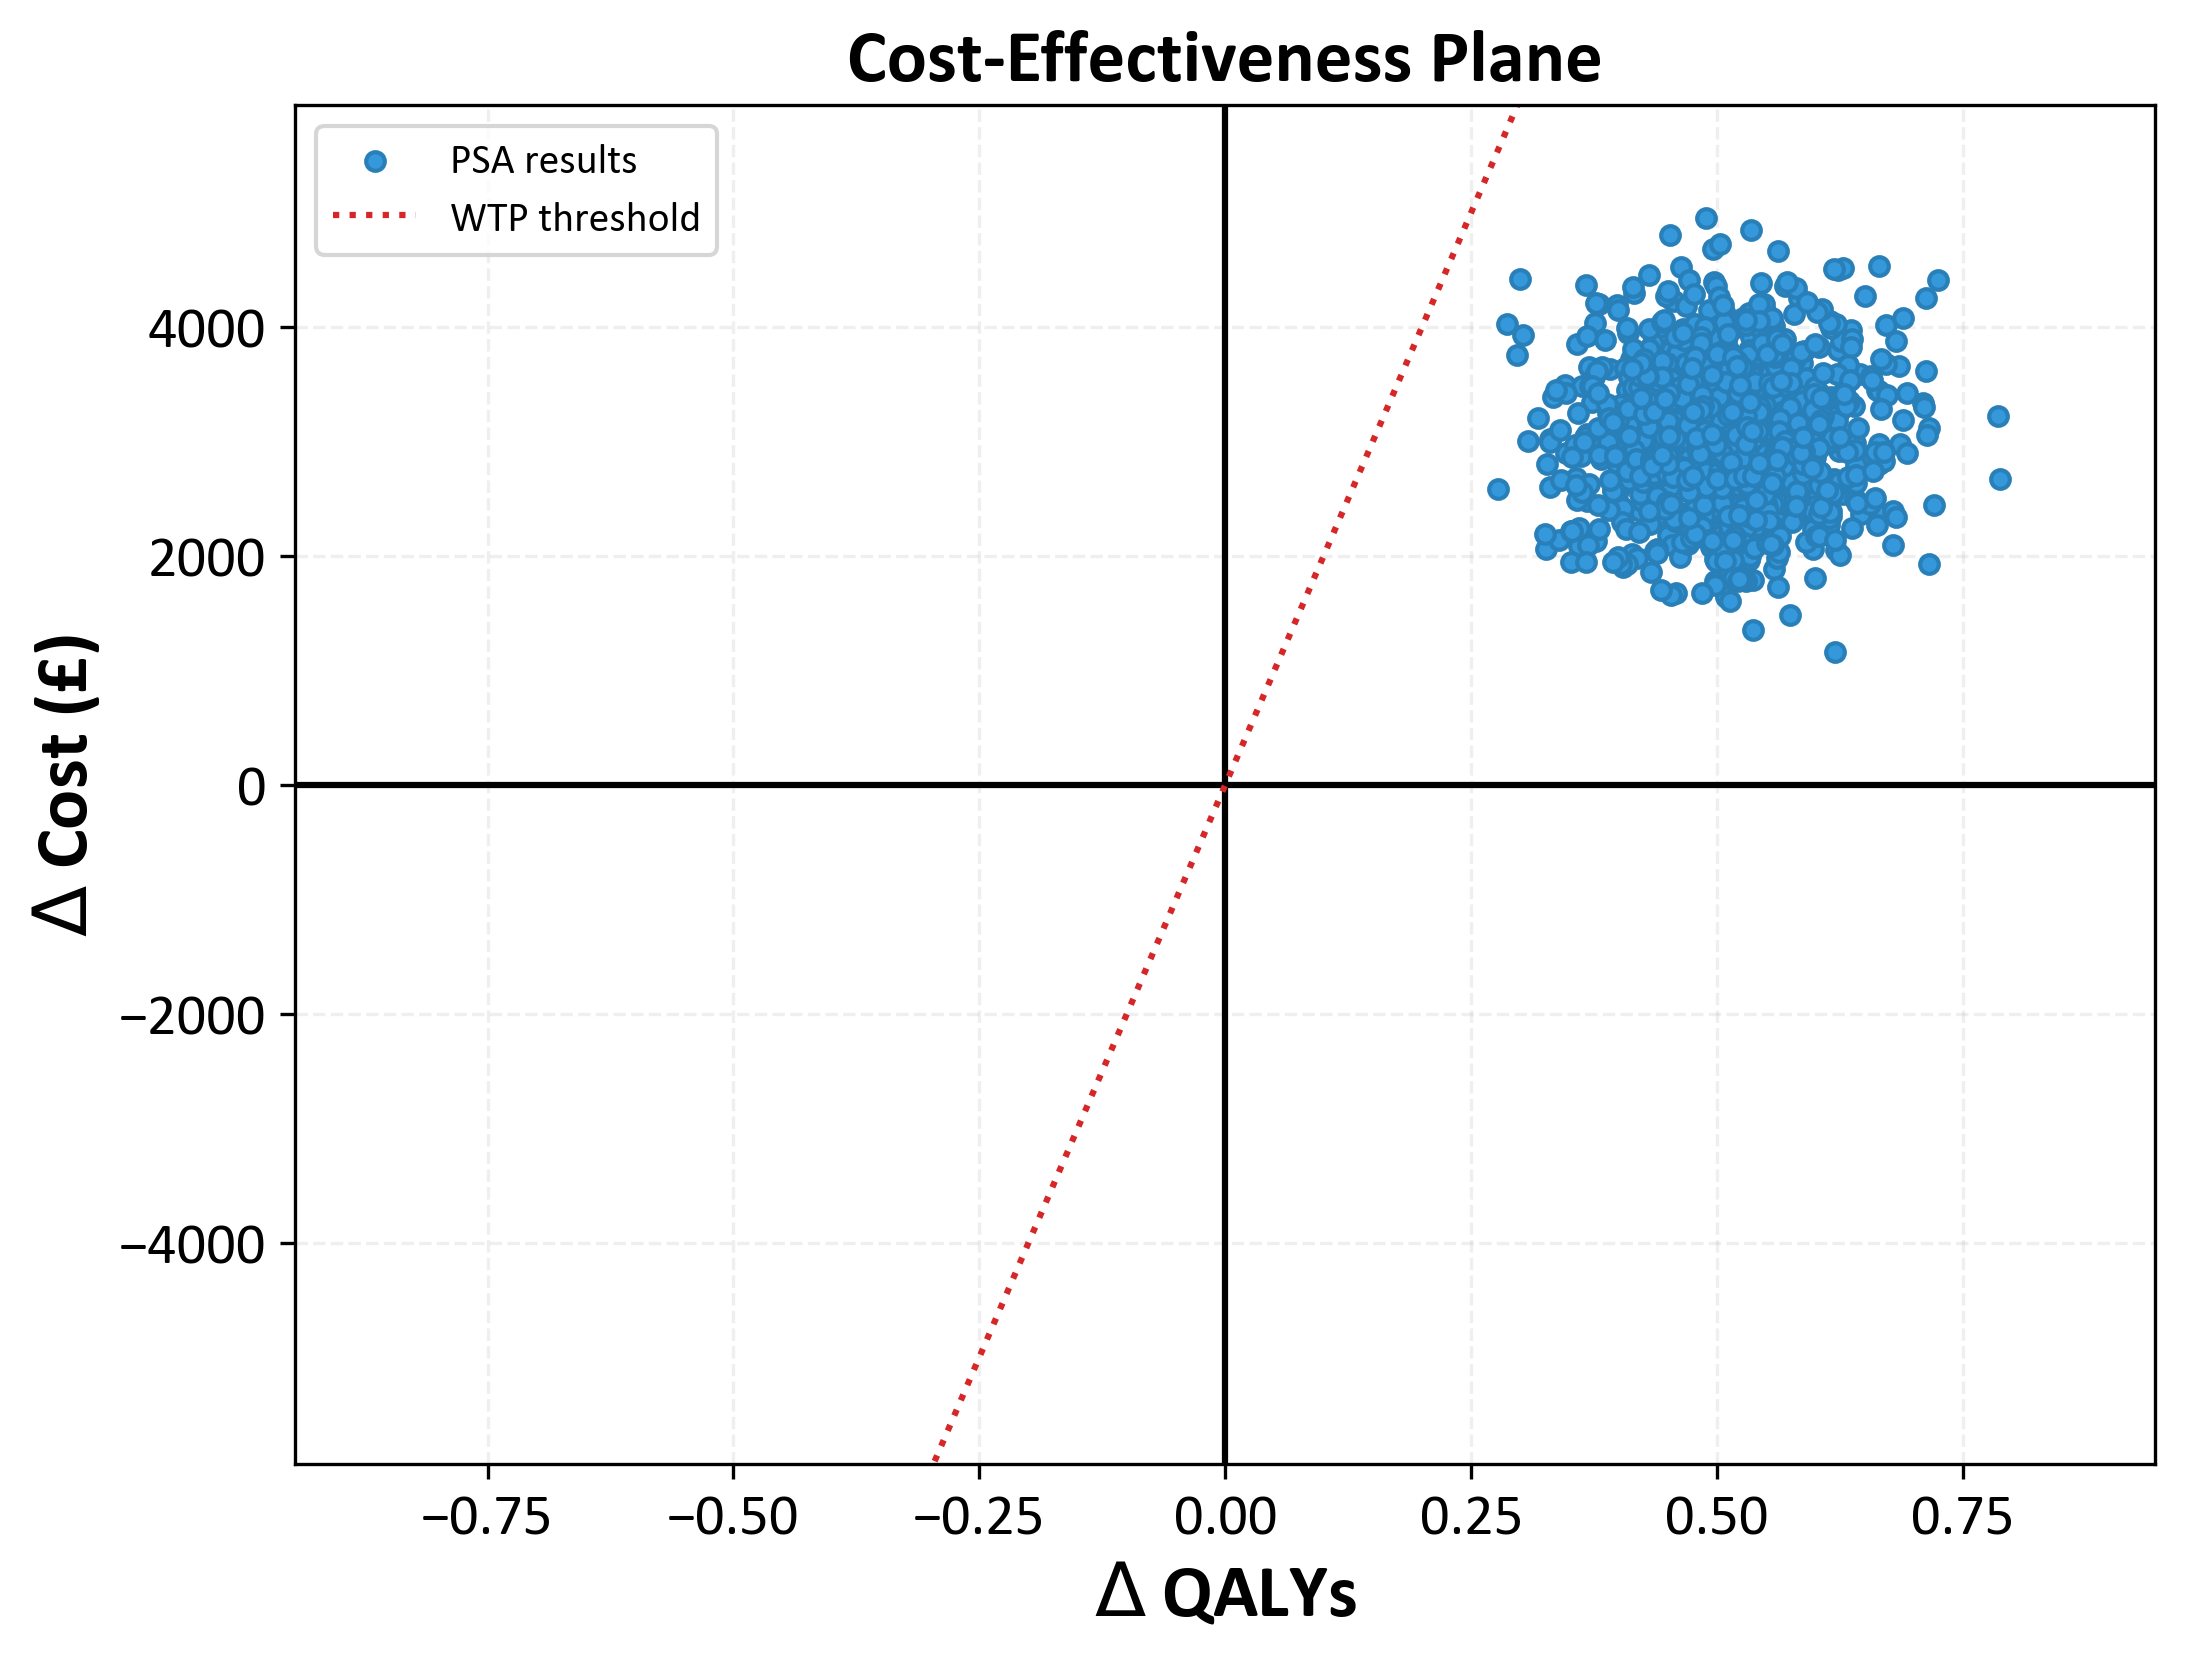
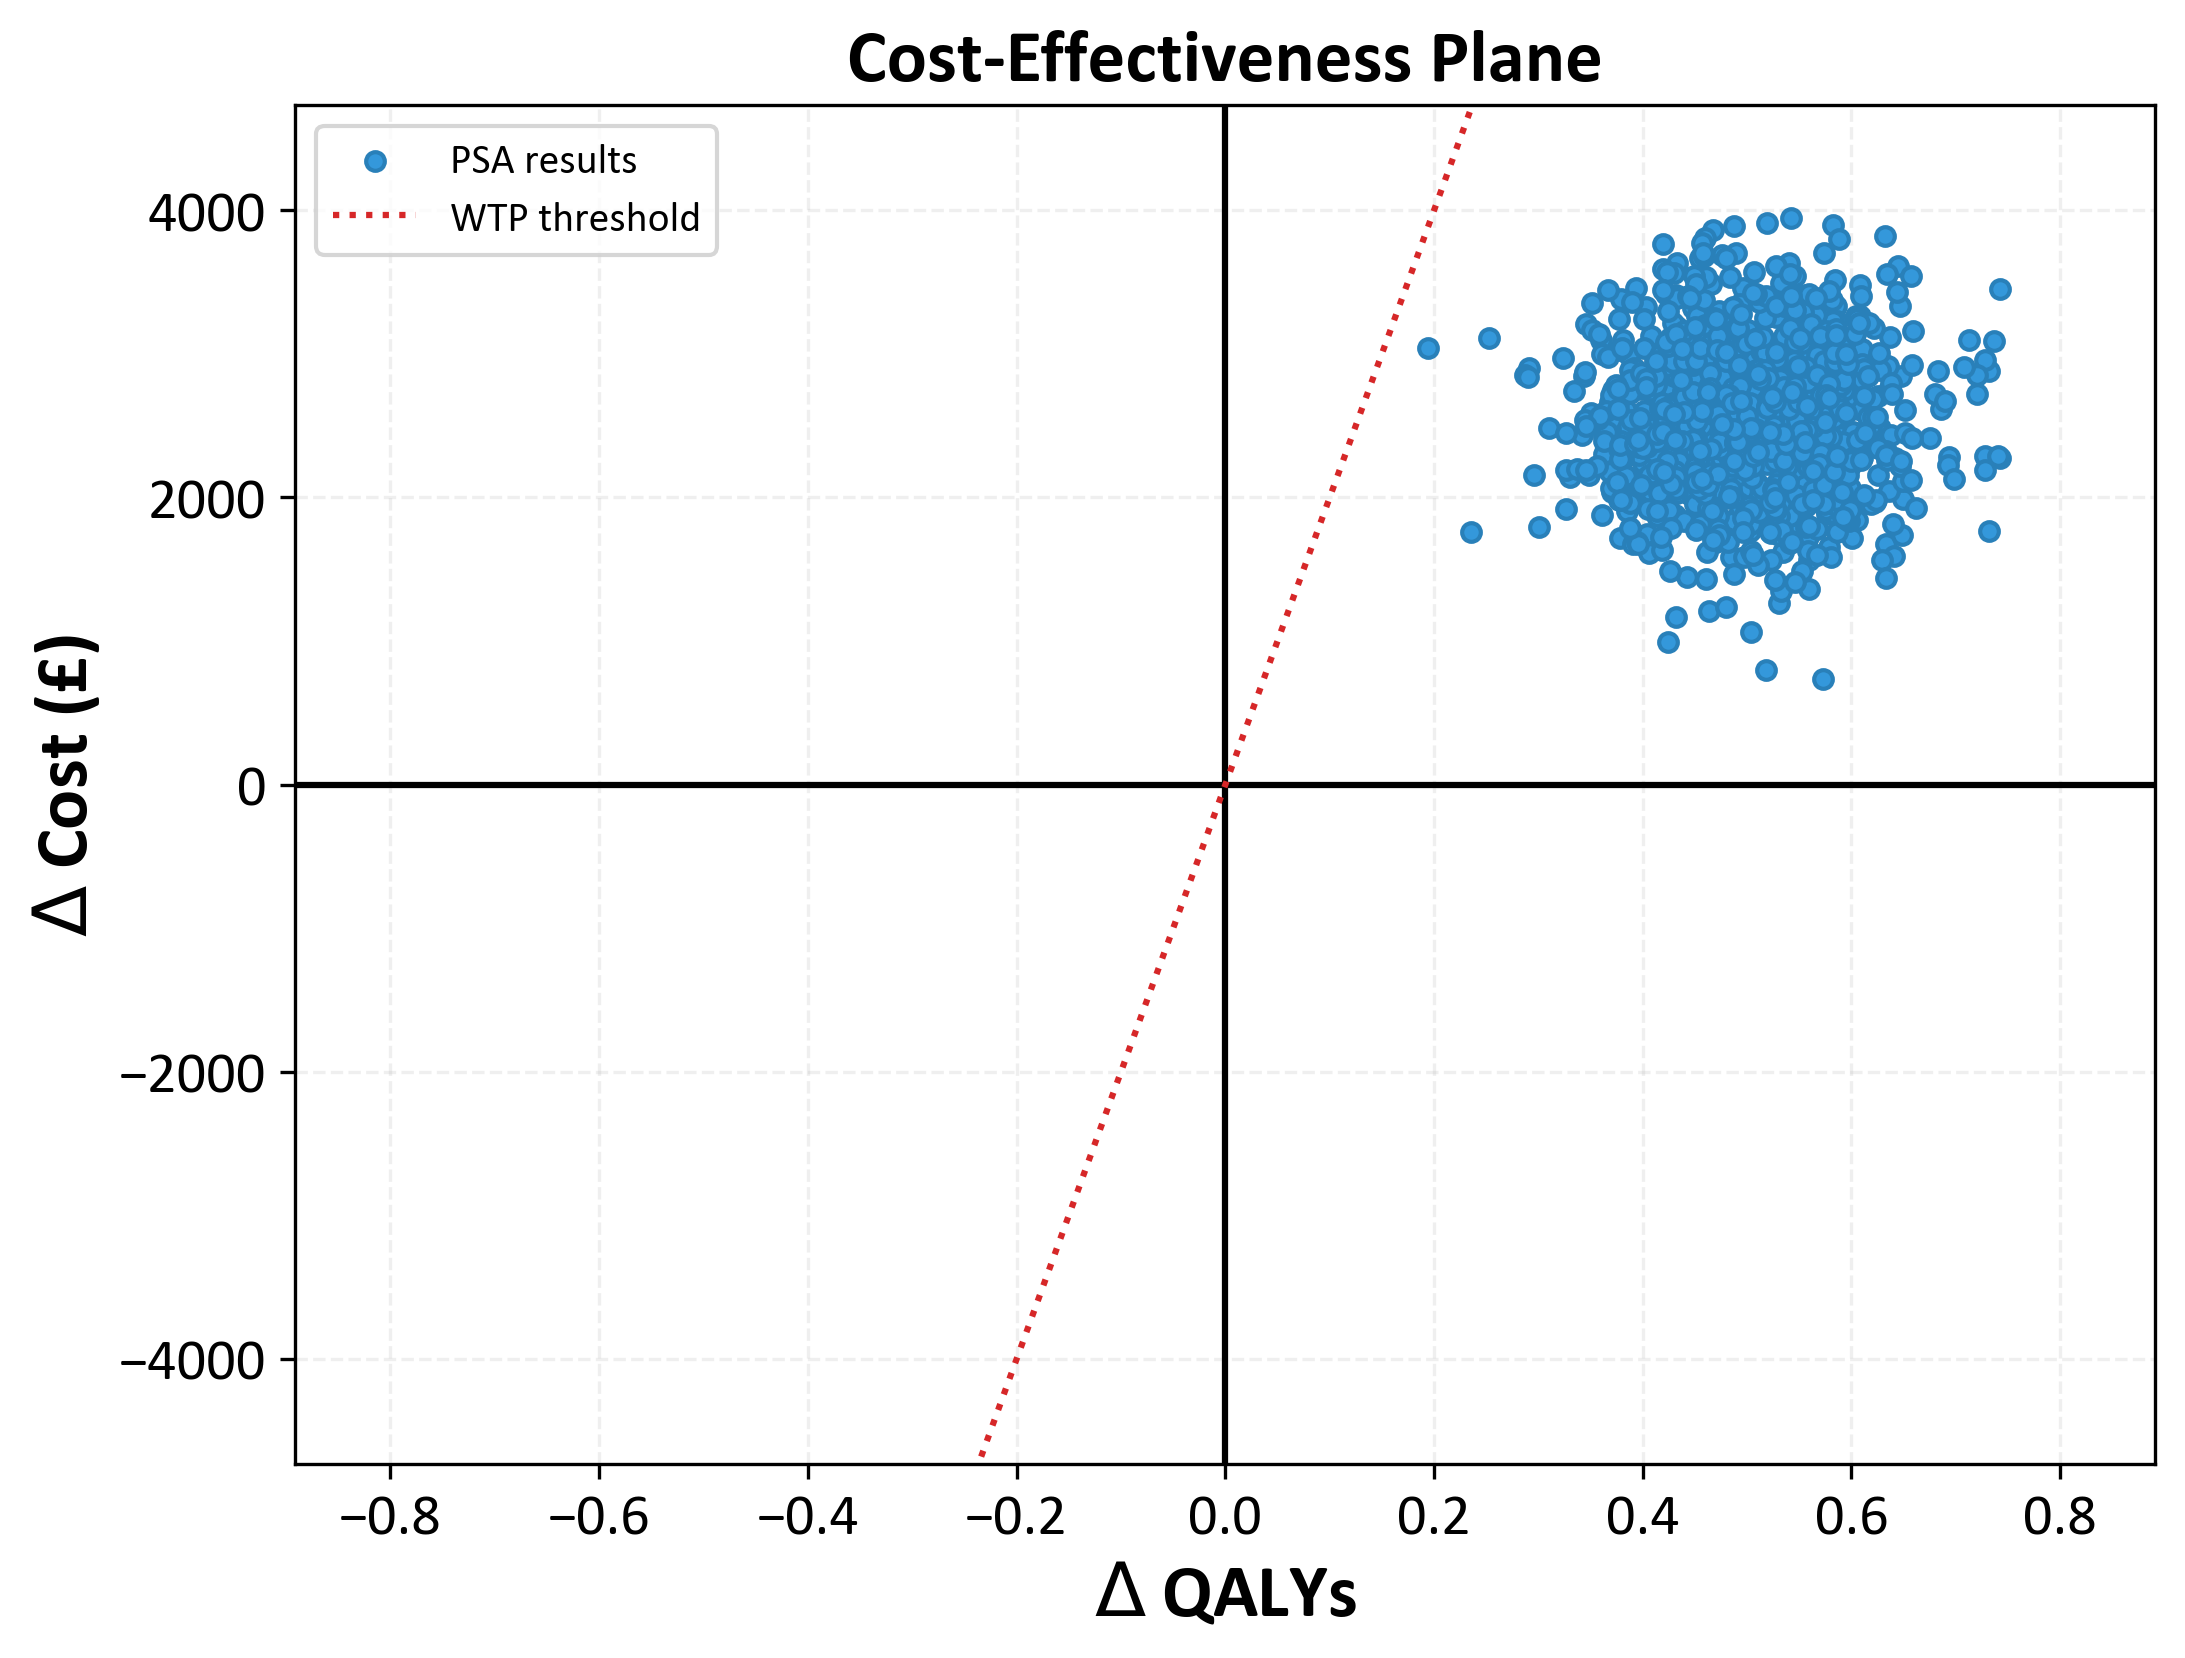
Add files via upload

diff --git a/cost_effectiveness_analysis_PSA.py b/cost_effectiveness_analysis_PSA.py
@@ -35,8 +35,8 @@ number_of_visits_B = 0
 number_of_tests_B = 0
 
 # Parameters for discounting future costs and QALYs to their present values
-discount_rate = 0.0  # Discount rate according to NICE guidelines is 3.5%
-years = 0             # Time horizon for the analysis
+discount_rate = 0.035  # Discount rate according to NICE guidelines is 3.5%
+years = 5             # Time horizon for the analysis
 
 # Willingness to pay threshold
 wtp = 20000  # £20,000 per QALY
